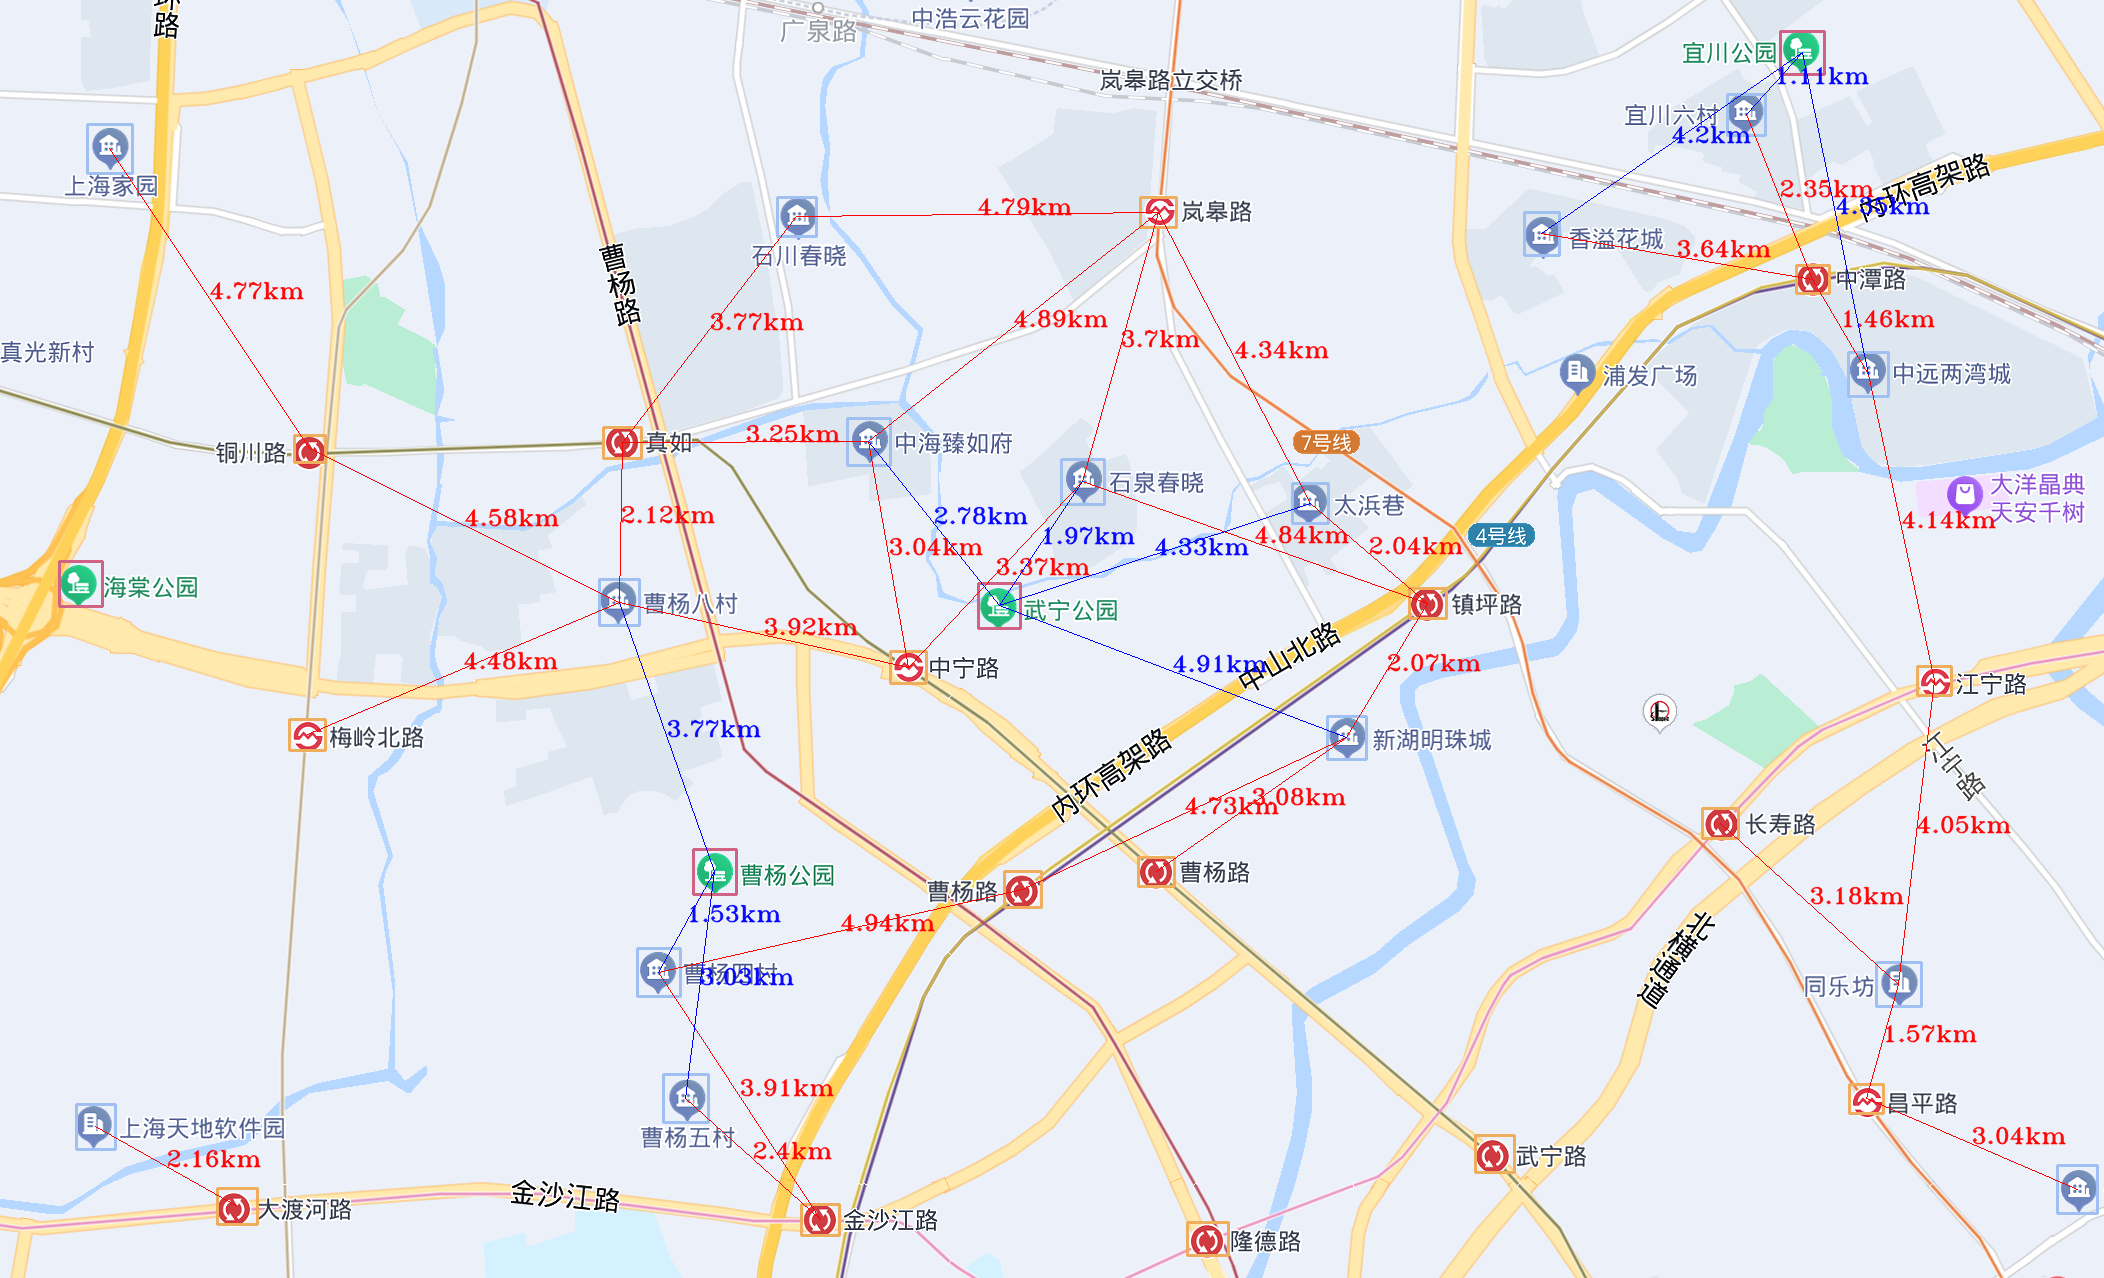
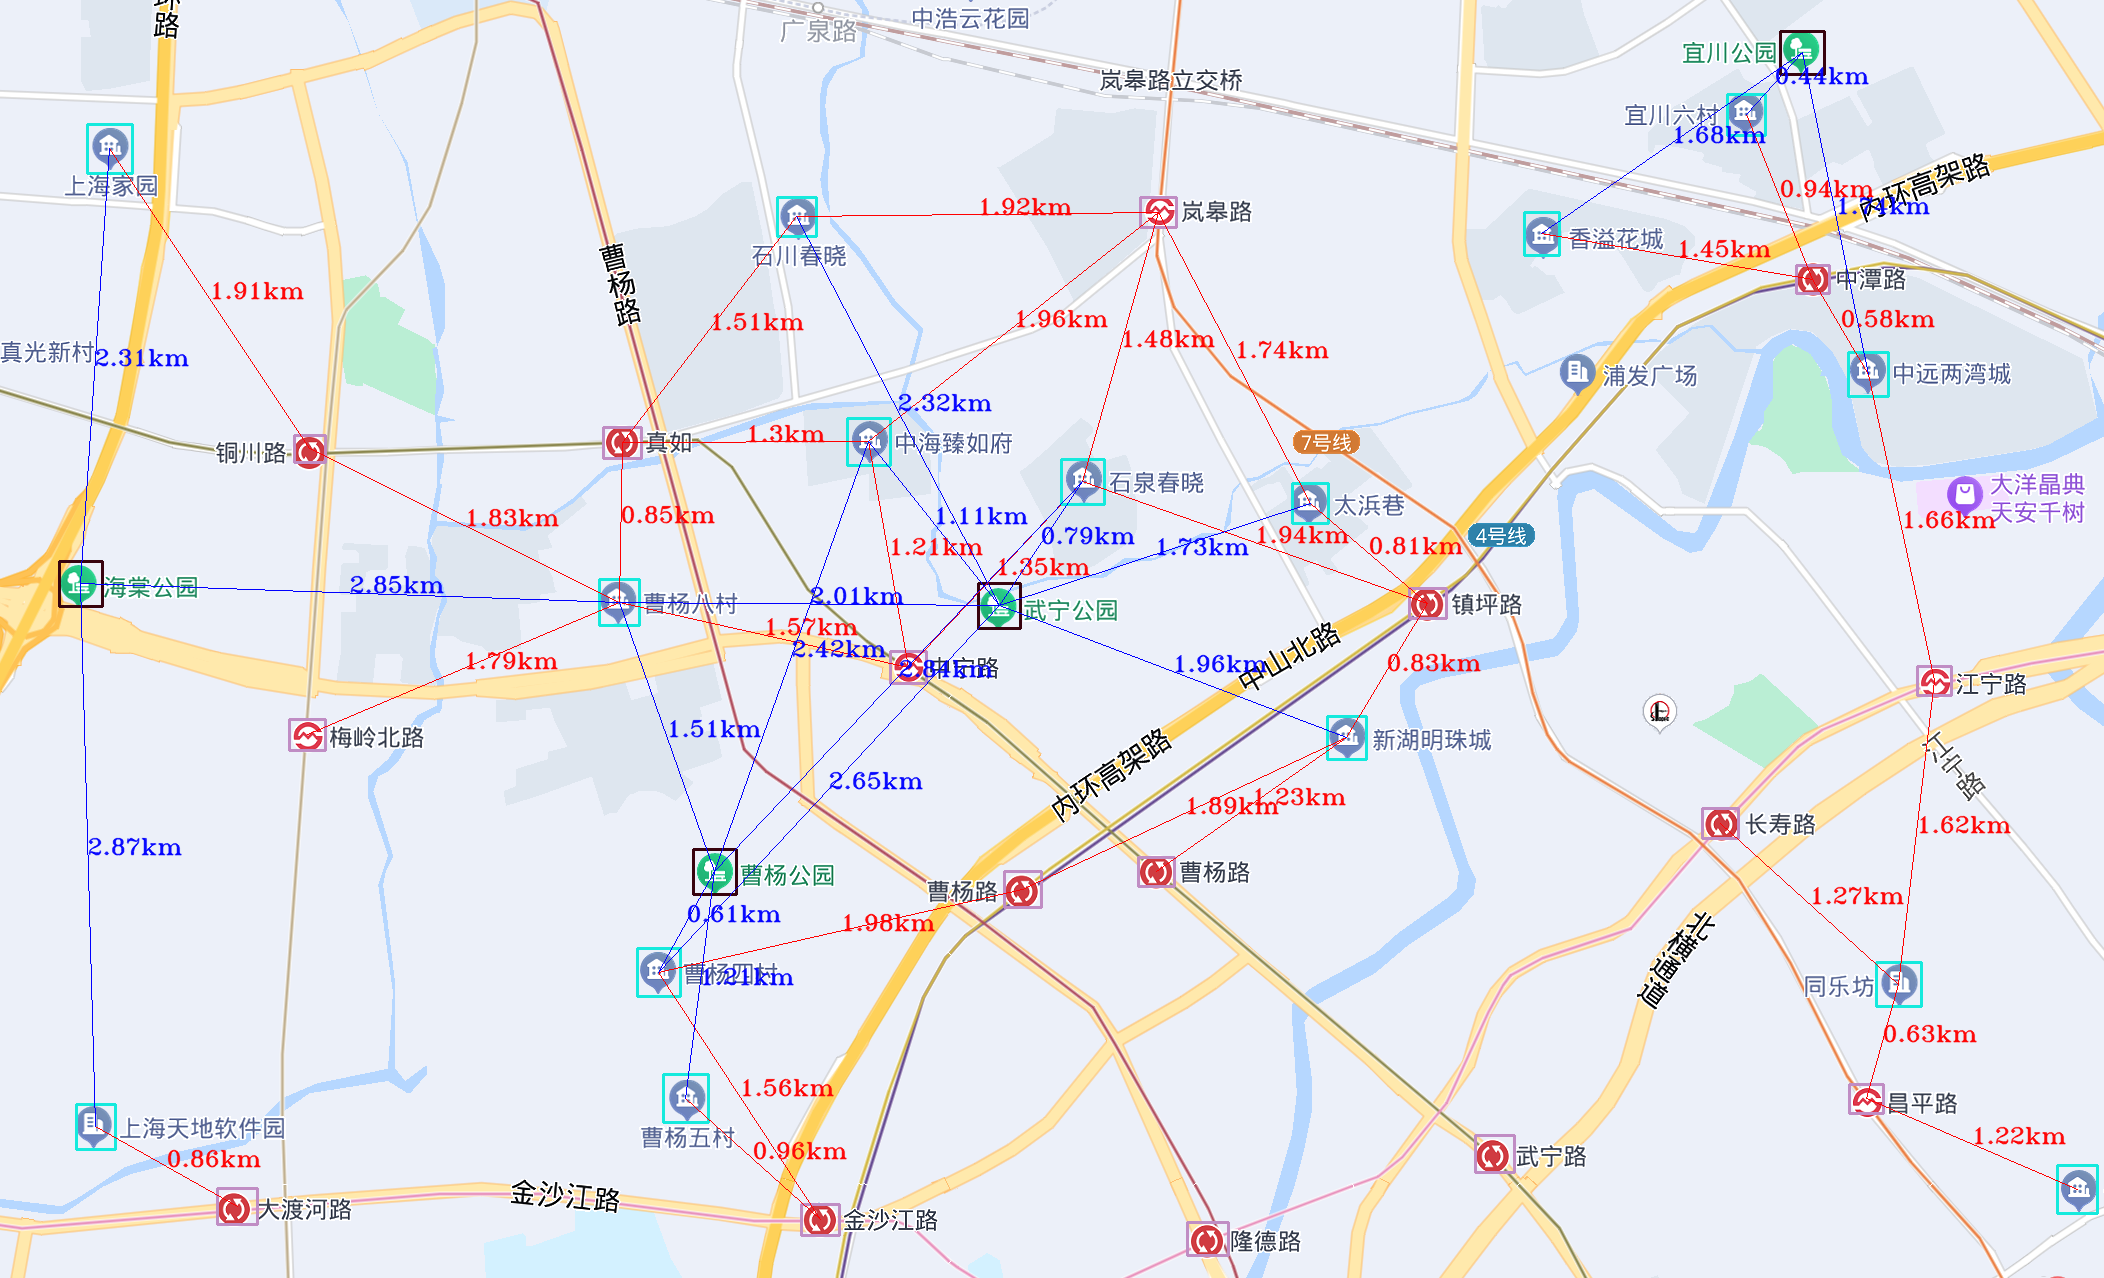
fix map demo

diff --git a/predict.py b/predict.py
@@ -180,15 +180,15 @@ class MapProduct():
 
     def __get_pix(self, distance):
         """ 
-        地图比例为 1cm = 500m，再将厘米转换为像素值
+        地图比例为 1cm = 200m，再将厘米转换为像素值
         """
-        return int(round((96.0 * distance/500.0)/2.54, 2))
+        return int(round((96.0 * distance/200.0)/2.54, 2))
 
     def __get_km(self, pix):
         """
-        地图比例为 1cm = 500m，再将像素转换为距离值 
+        地图比例为 1cm = 200m，再将像素转换为距离值 
         """
-        return round(pix*2.54*500/96/1000, 2)
+        return round(pix*2.54*200/96/1000, 2)
 
     def process(self, boxes, scores, cls_ids):
         """ 
@@ -279,8 +279,8 @@ if __name__ == '__main__':
 
     from coco_exp import Exp as CoCoExp
 
-    # 需求：地图周围5km的小区，小区周围5km的公园
-    map = MapProduct(house_distance=5000, park_distance=5000)
+    # 需求：地图周围2km的小区，小区周围3km的公园
+    map = MapProduct(house_distance=2000, park_distance=3000)
     # 模型推理
     model_file = 'models/coco_best_ckpt.pth'
     coco_exp = CoCoExp()

diff --git a/video_demo.py b/video_demo.py
@@ -1,0 +1,4 @@
+
+
+from coco_exp import Exp as CoCoExp
+from predict import MapPredict, MapProduct

diff --git a/README.md b/README.md
@@ -1,8 +1,11 @@
 # 地图图标识别
 
-地图标记识别，共分三类，地铁、小区、公园，然后拓展下需求，找出地铁站周围 5km 的小区和找出小区周围 5km 的公园。
+地图标记识别，共分三类，地铁、小区、公园，然后拓展下需求，找出地铁站周围 2km 的小区和找出小区周围 3km 的公园。
 
-测试效果图
+测试效果图，地图比例 `1cm : 200m` 
+
+- 红色线，地图周围的小区
+- 蓝色线，小区周围的公园
 
 ![](https://github.com/LABELNET/yolox-map-demo/blob/main/assets/result_demo.png)
 
